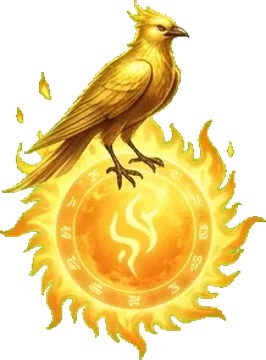
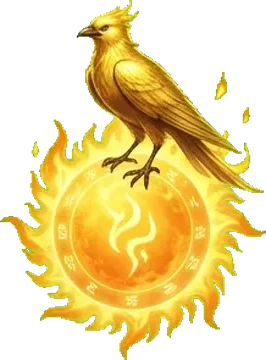
v169: 29张头朝右的怪物图左右翻转（头都朝左）；战斗画面怪物放大

diff --git a/web/index.html b/web/index.html
@@ -6,7 +6,7 @@
 <meta name="theme-color" content="#14110f">
 <meta name="apple-mobile-web-app-capable" content="yes">
 <title>问道长生 · 文字修仙</title>
-<link rel="stylesheet" href="css/style.css?v=116">
+<link rel="stylesheet" href="css/style.css?v=117">
 </head>
 <body class="nologin">
 <div id="app">
@@ -53,76 +53,76 @@
     b.textContent += "脚本错误：" + e.filename.split("/").slice(-2).join("/").split("?")[0] + " 第 " + e.lineno + " 行：" + e.message + "\n";
   });
 </script>
-<script src="js/config/realm.js?v=116"></script>
-<script src="js/config/player.js?v=116"></script>
-<script src="js/config/array.js?v=116"></script>
-<script src="js/config/mobs.js?v=116"></script>
-<script src="js/config/explore.js?v=116"></script>
-<script src="js/config/drops.js?v=116"></script>
-<script src="js/config/worldmaps.js?v=116"></script>
-<script src="js/config/xingjun.js?v=116"></script>
-<script src="js/config/battle.js?v=116"></script>
-<script src="js/config/equip.js?v=116"></script>
-<script src="js/config/start.js?v=116"></script>
-<script src="js/config/gongfa.js?v=116"></script>
-<script src="js/config/lingen.js?v=116"></script>
-<script src="js/config/items.js?v=116"></script>
-<script src="js/config/alchemy.js?v=116"></script>
-<script src="js/config/furnace.js?v=116"></script>
-<script src="js/config/forge.js?v=116"></script>
-<script src="js/config/garden.js?v=116"></script>
-<script src="js/config/trib.js?v=116"></script>
-<script src="js/config/servant.js?v=116"></script>
-<script src="js/config/sect.js?v=116"></script>
-<script src="js/config/wudao.js?v=116"></script>
-<script src="js/config/craftsman.js?v=116"></script>
-<script src="js/config/mijing.js?v=116"></script>
-<script src="js/config/lingdi.js?v=116"></script>
-<script src="js/config/body.js?v=116"></script>
-<script src="js/config/names.js?v=116"></script>
-<script src="js/config/shenshi.js?v=116"></script>
+<script src="js/config/realm.js?v=117"></script>
+<script src="js/config/player.js?v=117"></script>
+<script src="js/config/array.js?v=117"></script>
+<script src="js/config/mobs.js?v=117"></script>
+<script src="js/config/explore.js?v=117"></script>
+<script src="js/config/drops.js?v=117"></script>
+<script src="js/config/worldmaps.js?v=117"></script>
+<script src="js/config/xingjun.js?v=117"></script>
+<script src="js/config/battle.js?v=117"></script>
+<script src="js/config/equip.js?v=117"></script>
+<script src="js/config/start.js?v=117"></script>
+<script src="js/config/gongfa.js?v=117"></script>
+<script src="js/config/lingen.js?v=117"></script>
+<script src="js/config/items.js?v=117"></script>
+<script src="js/config/alchemy.js?v=117"></script>
+<script src="js/config/furnace.js?v=117"></script>
+<script src="js/config/forge.js?v=117"></script>
+<script src="js/config/garden.js?v=117"></script>
+<script src="js/config/trib.js?v=117"></script>
+<script src="js/config/servant.js?v=117"></script>
+<script src="js/config/sect.js?v=117"></script>
+<script src="js/config/wudao.js?v=117"></script>
+<script src="js/config/craftsman.js?v=117"></script>
+<script src="js/config/mijing.js?v=117"></script>
+<script src="js/config/lingdi.js?v=117"></script>
+<script src="js/config/body.js?v=117"></script>
+<script src="js/config/names.js?v=117"></script>
+<script src="js/config/shenshi.js?v=117"></script>
 <!-- 自定义物品、坊市、宗门宝库、地图掉落（不是数值文件） -->
-<script src="js/content/items.js?v=116"></script>
-<script src="js/data/names.js?v=116"></script>
-<script src="js/data/realms.js?v=116"></script>
-<script src="js/data/pills.js?v=116"></script>
-<script src="js/data/cave.js?v=116"></script>
-<script src="js/data/sects.js?v=116"></script>
-<script src="js/data/gongfa.js?v=116"></script>
-<script src="js/data/items.js?v=116"></script>
-<script src="js/data/maps.js?v=116"></script>
-<script src="js/data/jiegf.js?v=116"></script>
-<script src="js/data/craft.js?v=116"></script>
-<script src="js/data/forge.js?v=116"></script>
-<script src="js/data/refstats.js?v=116"></script>
-<script src="js/data/mobs.js?v=116"></script>
+<script src="js/content/items.js?v=117"></script>
+<script src="js/data/names.js?v=117"></script>
+<script src="js/data/realms.js?v=117"></script>
+<script src="js/data/pills.js?v=117"></script>
+<script src="js/data/cave.js?v=117"></script>
+<script src="js/data/sects.js?v=117"></script>
+<script src="js/data/gongfa.js?v=117"></script>
+<script src="js/data/items.js?v=117"></script>
+<script src="js/data/maps.js?v=117"></script>
+<script src="js/data/jiegf.js?v=117"></script>
+<script src="js/data/craft.js?v=117"></script>
+<script src="js/data/forge.js?v=117"></script>
+<script src="js/data/refstats.js?v=117"></script>
+<script src="js/data/mobs.js?v=117"></script>
 
-<script src="js/core/util.js?v=116"></script>
-<script src="js/core/api.js?v=116"></script>
-<script src="js/core/game.js?v=116"></script>
+<script src="js/core/util.js?v=117"></script>
+<script src="js/core/api.js?v=117"></script>
+<script src="js/core/game.js?v=117"></script>
 
-<script src="js/modules/player.js?v=116"></script>
-<script src="js/modules/cave.js?v=116"></script>
-<script src="js/modules/bag.js?v=116"></script>
-<script src="js/modules/custom.js?v=116"></script>
-<script src="js/modules/gongfa.js?v=116"></script>
-<script src="js/modules/sect.js?v=116"></script>
-<script src="js/modules/cultivate.js?v=116"></script>
-<script src="js/modules/trib.js?v=116"></script>
-<script src="js/modules/body.js?v=116"></script>
-<script src="js/modules/world.js?v=116"></script>
-<script src="js/modules/xingjun.js?v=116"></script>
-<script src="js/modules/lingen.js?v=116"></script>
-<script src="js/modules/craft.js?v=116"></script>
-<script src="js/modules/wudao.js?v=116"></script>
-<script src="js/modules/shenshi.js?v=116"></script>
-<script src="js/modules/garden.js?v=116"></script>
-<script src="js/modules/servant.js?v=116"></script>
-<script src="js/modules/gift.js?v=116"></script>
-<script src="js/modules/accounts.js?v=116"></script>
-<script src="js/modules/battleset.js?v=116"></script>
-<script src="js/modules/account.js?v=116"></script>
-<script src="js/core/fastsim.js?v=116"></script>
+<script src="js/modules/player.js?v=117"></script>
+<script src="js/modules/cave.js?v=117"></script>
+<script src="js/modules/bag.js?v=117"></script>
+<script src="js/modules/custom.js?v=117"></script>
+<script src="js/modules/gongfa.js?v=117"></script>
+<script src="js/modules/sect.js?v=117"></script>
+<script src="js/modules/cultivate.js?v=117"></script>
+<script src="js/modules/trib.js?v=117"></script>
+<script src="js/modules/body.js?v=117"></script>
+<script src="js/modules/world.js?v=117"></script>
+<script src="js/modules/xingjun.js?v=117"></script>
+<script src="js/modules/lingen.js?v=117"></script>
+<script src="js/modules/craft.js?v=117"></script>
+<script src="js/modules/wudao.js?v=117"></script>
+<script src="js/modules/shenshi.js?v=117"></script>
+<script src="js/modules/garden.js?v=117"></script>
+<script src="js/modules/servant.js?v=117"></script>
+<script src="js/modules/gift.js?v=117"></script>
+<script src="js/modules/accounts.js?v=117"></script>
+<script src="js/modules/battleset.js?v=117"></script>
+<script src="js/modules/account.js?v=117"></script>
+<script src="js/core/fastsim.js?v=117"></script>
 
 <script>G.init();</script>
 </body>

diff --git a/web/js/data/forge.js b/web/js/data/forge.js
@@ -279,7 +279,7 @@ DATA.fabaoInfo = (e, own) => {
  *   img/icons/pill_丹药id.png 修炼丹、dan_类型.png 属性丹、fu_dan / fu_qi.png 炉子、ss.png 空间石
  *   fbs形状_属性.png 法宝（7 种形状 × 6 种属性）、sm_ys属性.png 耀石、mifa.png 秘法、seed.png 种子、stone.png 灵石、cu_*.png 自定义物品
  *   hx.png 火髓、bp.png 图纸 */
-DATA.IMG_V = 5;
+DATA.IMG_V = 6;
 DATA.matImg = (kind, g) => `img/mats/${kind}${g}.png?v=${DATA.IMG_V}`;
 DATA.iconImg = n => `img/icons/${n}.png?v=${DATA.IMG_V}`;
 DATA.ICON_EQ = ["helmet", "armor", "weapon", "legs", "boots", "pendant", "ring"];

diff --git a/web/css/style.css b/web/css/style.css
@@ -466,3 +466,6 @@ button small .cd{min-width:0}
 @keyframes btv-ring-in{0%{opacity:0;transform:scale(.6)}100%{opacity:1;transform:scale(1)}}
 @keyframes btv-ring-glow{0%{opacity:.75}100%{opacity:1}}
 @keyframes btv-ring-out{0%{opacity:1;transform:scale(1)}100%{opacity:0;transform:scale(1.25)}}
+/* v169 怪物放大 */
+.btv-u.r{right:3%;width:40%}
+.btv-u.r img{max-height:82%}
